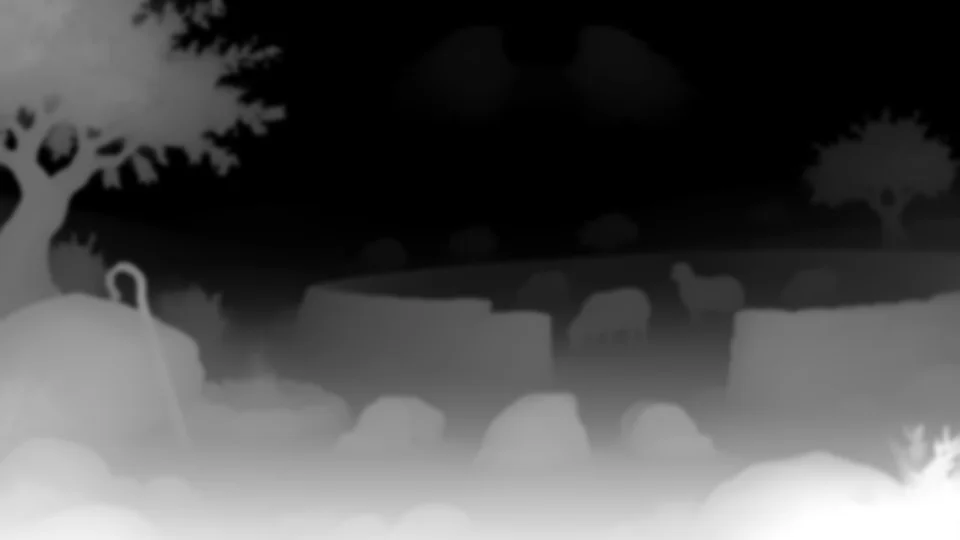
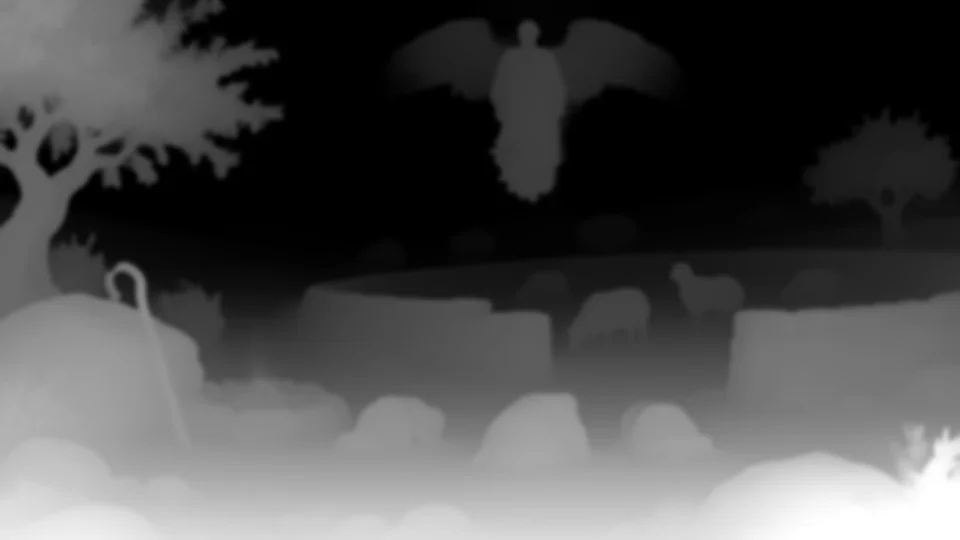
베들레헴의 밤: 새 그림 9장 반영 — 세로 첫 화면 대표 그림, 프롤로그 컷(내 방·우물 속)과 두루마리 방, 천사 장면 v2, 지붕 별·그 집 문·몇 달 뒤 여관·엔딩 컷 준비(선명판·거리 지도)
Claude-Session: https://claude.ai/code/session_01HTFwxMAgXnQDPwQEatFr8z

diff --git a/bethlehem/story-prologue.js b/bethlehem/story-prologue.js
@@ -17,7 +17,7 @@
   BN.OPENING[3] = ['img/maps/mapA.webp', '눈을 떠 보니 베들레헴 성문 곁.<br>나는 늙은 서기관 아삽의 견습생이 되어 있었다.', '', '60% 85%'];
 
   BN.ROOMS.wellroom = {
-    title: '우물 바닥 · 두루마리 방', focus: 50, bgm: 'bgm05_opening', bg: 'img/places/well.webp', noBack: true, prologue: true,
+    title: '우물 바닥 · 두루마리 방', focus: 50, bgm: 'bgm05_opening', bg: 'img/places/wellroom.webp', noBack: true, prologue: true,
     intro: [
       ['keeper', 1, '앗, 너도 빨려 들어왔구나! 여기는 말씀우물 맨 아래, 두루마리 방이야.'],
       ['keeper', 0, '성탄 두루마리가 찢어지면서, 이야기 조각들이 2천 년 전 베들레헴으로 흩어져 버렸어.'],
@@ -26,11 +26,11 @@
       ['keeper', 2, '나도 다 기억이 안 나…. 바닥에 떨어진 두루마리 조각부터 찾아 보자. 세 조각이야.', '(그림 속을 직접 눌러서 찾아요)']
     ],
     spots: [
-      { id: 'scrap1', x: 18, y: 84, w: 12, h: 14, act: 'scrap:1', msg: '돌 틈에 두루마리 조각이 끼어 있다.' },
-      { id: 'scrap2', x: 52, y: 92, w: 12, h: 12, act: 'scrap:2', msg: '물웅덩이 옆에 젖은 조각이 떨어져 있다.' },
-      { id: 'scrap3', x: 86, y: 70, w: 10, h: 16, act: 'scrap:3', msg: '벽 등잔 아래에 그을린 조각이 있다.' },
-      { id: 'door', x: 50, y: 50, w: 22, h: 34, act: 'puzzle:wellscroll' },
-      { id: 'keeper', x: 30, y: 98, fig: 'keeper_front', h: 34, act: 'talk:keeper' }
+      { id: 'scrap1', x: 15, y: 92, w: 10, h: 9, act: 'scrap:1', msg: '돌문 왼쪽 바닥에 두루마리 조각이 떨어져 있다.' },
+      { id: 'scrap2', x: 25, y: 83, w: 8, h: 7, act: 'scrap:2', msg: '등잔 불빛 아래 바닥에 조각이 하나 더 있다.' },
+      { id: 'scrap3', x: 71, y: 90, w: 12, h: 10, act: 'scrap:3', msg: '돌문 오른쪽 바닥에 젖은 조각이 있다.' },
+      { id: 'door', x: 50, y: 44, w: 28, h: 62, act: 'puzzle:wellscroll' },
+      { id: 'keeper', x: 88, y: 99, fig: 'keeper_front', h: 30, act: 'talk:keeper' }
     ],
     talks: {
       keeper: [['keeper', 0, '조각 세 개를 다 찾으면 돌문 앞에서 맞춰 보자. 끌어서 둘러보면 숨은 곳이 보일 거야.']]
@@ -43,7 +43,7 @@
     ]
   };
   BN.FX = BN.FX || {};
-  BN.FX.wellroom = { grade: { shadow: [.8, .88, 1.25], high: [1.02, 1.0, .95], vig: .5, sat: .9 }, rays: [[50, -4, 600, 0]], stars: 20, dust: 30 };
+  BN.FX.wellroom = { grade: { vig: .4 }, rays: [[50, -4, 520, 0]], lights: [[21, 56, 110], [80, 56, 110]], stars: false, dust: 30 };
   BN.HINTS = BN.HINTS || {};
-  BN.HINTS.wellroom = ['조각은 바닥 돌 틈, 물웅덩이, 벽 등잔 아래에 있어요. 화면을 끌어 구석까지 보세요.', '돌문을 눌러 세 조각을 위에서부터 이어지게 바꿔 놓아요(두 조각을 차례로 누르면 자리가 바뀌어요).', '찢긴 선이 이어지는 순서: 「마태복음」 → 「1장」 → 「23절」'];
+  BN.HINTS.wellroom = ['조각은 돌문 앞 바닥에 흩어져 있어요. 화면을 좌우로 끌어 왼쪽 등잔 아래까지 보세요.', '돌문을 눌러 세 조각을 위에서부터 이어지게 바꿔 놓아요(두 조각을 차례로 누르면 자리가 바뀌어요).', '찢긴 선이 이어지는 순서: 「마태복음」 → 「1장」 → 「23절」'];
 })(window.BN);

diff --git a/bethlehem/game.css b/bethlehem/game.css
@@ -298,3 +298,11 @@ body:has(#dialog:not([hidden])) #panHint { opacity: 0 !important; }
 .scrap-piece.sel { transform: rotate(0) scale(1.05); outline: 2px solid var(--gold); }
 .twelve { display: grid; grid-template-columns: repeat(6, 26px); gap: 6px; margin-top: 8px; }
 .twelve i { width: 26px; height: 26px; border: 1px dashed rgba(232, 183, 90, .6); border-radius: 6px; }
+
+/* 세로 첫 화면: 영화 포스터 느낌 대표 그림, 제목은 하늘 쪽 */
+@media (orientation: portrait) {
+  .title-bg { background-image: url(img/maps/title_port.webp); background-position: center bottom; animation: none; inset: 0; }
+  .title-veil { background: linear-gradient(180deg, rgba(7, 11, 28, .35), rgba(7, 11, 28, 0) 40%, rgba(7, 11, 28, .0) 60%, rgba(7, 11, 28, .75)); }
+  .title-box { top: 0; bottom: 0; left: 0; right: 0; width: auto; transform: none; display: flex; flex-direction: column; align-items: center; padding: 15vh 16px 6vh; }
+  .title-box .title-btns { margin-top: auto; width: 100%; }
+}

diff --git a/bethlehem/game.js b/bethlehem/game.js
@@ -91,6 +91,7 @@
     function next() {
       i++; if (i >= slides.length) { clearTimeout(timer); if (typing2) clearInterval(typing2); return done(); }
       var my = ++seq, c = slides[i].slice(); if (FB[c[0]] && !playOpening.ok[c[0]]) c[0] = FB[c[0]]; if (typing2) { clearInterval(typing2); typing2 = null; } tx.textContent = ''; ref.textContent = ''; ref.style.opacity = 0; paper.classList.remove('on');
+      if ((window.devicePixelRatio || 1) > 1.5 && /img\/(cuts\/|places\/|maps\/mapA)/.test(c[0])) c[0] = c[0].replace('.webp', '@2x.webp');
       var same = img.style.backgroundImage.indexOf(c[0]) >= 0; if (!same) img.classList.remove('on');
       setTimeout(function () { if (my !== seq) return;
         img.style.backgroundImage = 'url(' + c[0] + ')'; img.style.backgroundPosition = c[3] || 'center'; img.style.transition = 'opacity 1.2s'; img.style.transform = 'none'; img.classList.add('on');
